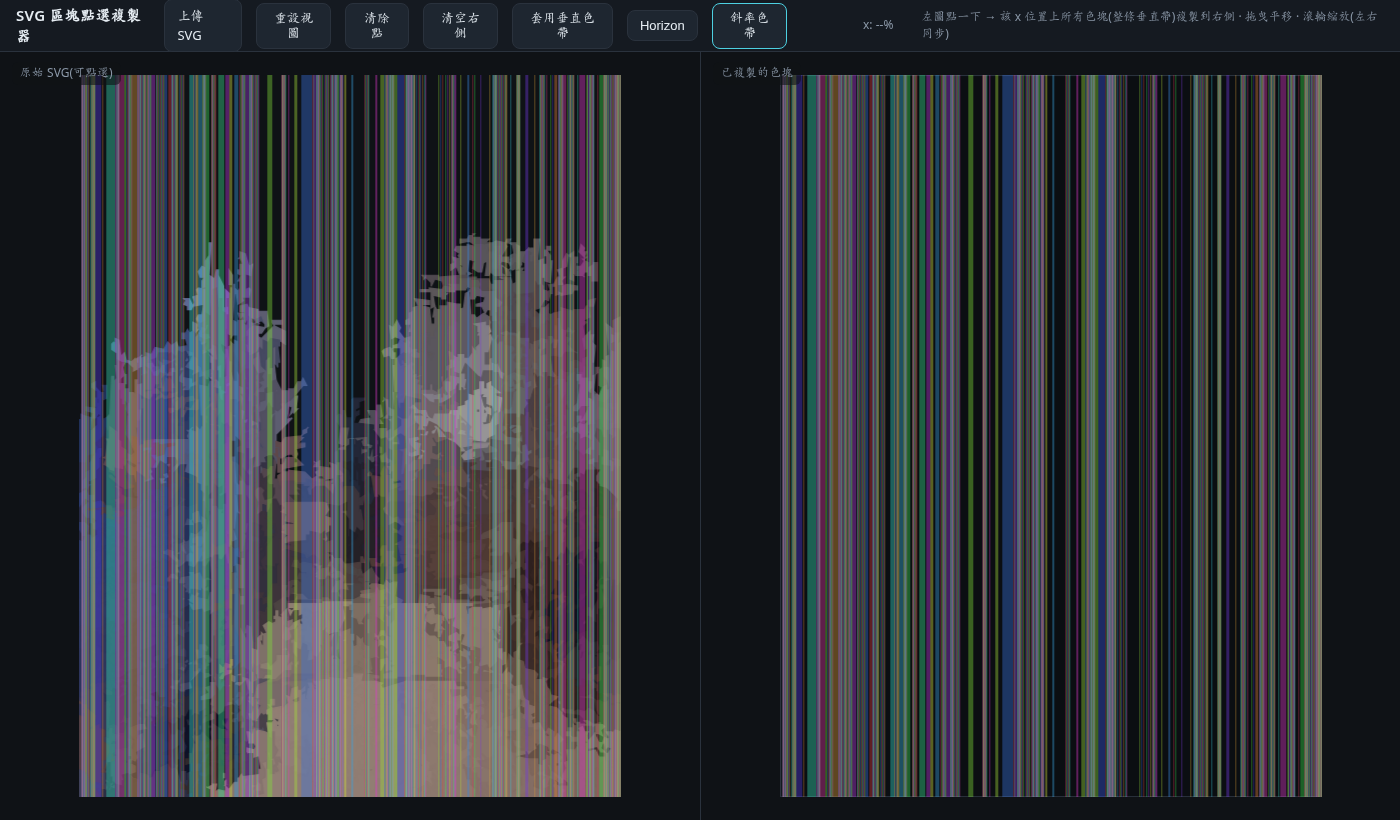
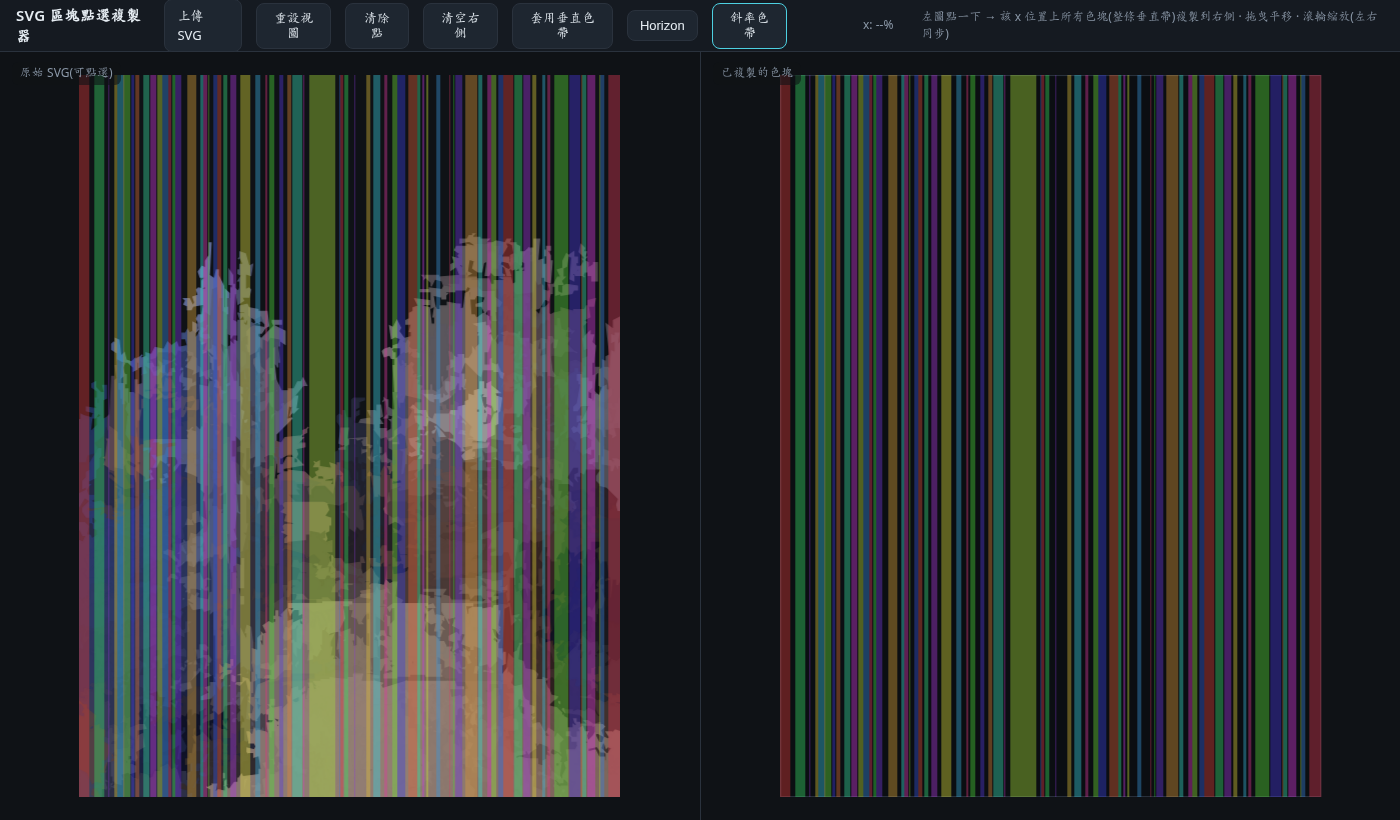
vcp: windowed slope + discontinuity exclusion for the bands
Partition the skyline per-column by a WINDOWED slope instead of the
forward difference, fixing two cases from review:

  - a rasterised diagonal (flat tread + 1px step, repeating) was
    fragmenting into one band per step; a window spans several treads so
    the whole diagonal now reads as ONE segment.
  - a near-vertical step is a discontinuity, not a slope; columns whose
    |slope| exceeds steepMax are excluded and left unmarked.

Each segment is now uniformly flat (unmarked) or uniformly sloped
(marked). Adds a clean flat→step→diagonal fixture proving the step stays
unmarked and the diagonal is a single band (431→69 bands on ex.svg).

diff --git a/vcp/horizon-slope.puppeteer.test.js b/vcp/horizon-slope.puppeteer.test.js
@@ -43,43 +43,56 @@ async function main() {
     // ---- 1. pure segmentation logic on synthetic skylines --------------------
     const segments = await page.evaluate(() => {
       const mk = ys => ys.map((y, i) => ({ x: i, y }));
+      const pair = s => s.map(g => [g.startIndex, g.endIndex]);
+      const opts = { window: 1, flatEps: 0.01, steepMax: 10 };
       return {
-        flat: horizonSlopeSegments(mk([5, 5, 5, 5, 5])),
-        oneRun: horizonSlopeSegments(mk([0, 0, 1, 2, 2])),
-        twoRuns: horizonSlopeSegments(mk([0, 1, 1, 2])),
-        gap: horizonSlopeSegments(mk([0, 1, null, 2, 3])),
-        trailing: horizonSlopeSegments(mk([0, 0, 1, 2])),
+        flat: horizonSlopeSegments(mk([5, 5, 5, 5, 5]), opts),
+        ramp: pair(horizonSlopeSegments(mk([0, 1, 2, 3, 4, 5]), opts)),
+        staircase: pair(horizonSlopeSegments(mk([0, 0, 0, 1, 1, 1, 2, 2, 2]), { ...opts, window: 2 })),
+        staircaseForward: pair(horizonSlopeSegments(mk([0, 0, 0, 1, 1, 1, 2, 2, 2]), { ...opts, window: 1 })),
+        cliff: horizonSlopeSegments(mk([0, 0, 0, 50, 50, 50]), opts),
+        cliffBetweenSlopes: pair(horizonSlopeSegments(mk([0, 1, 2, 50, 51, 52]), opts)),
+        gap: pair(horizonSlopeSegments(mk([0, 1, 2, null, 4, 5, 6]), opts)),
         colors: [0, 1, 2].map(bandColor)
       };
     });
 
     assert.deepEqual(segments.flat, [], "a perfectly flat skyline yields 0 bands");
+    assert.deepEqual(segments.ramp, [[0, 5]], "a constant slope is one unbroken band");
 
-    assert.equal(segments.oneRun.length, 1, "a single rise→fall is one non-flat run");
-    assert.deepEqual(
-      { s: segments.oneRun[0].startIndex, e: segments.oneRun[0].endIndex },
-      { s: 1, e: 3 }, "the run spans exactly the non-flat indices");
-    assert.equal(segments.oneRun[0].startPct, 25, "startIndex 1 of 4 → 25%");
-    assert.equal(segments.oneRun[0].endPct, 75, "endIndex 3 of 4 → 75%");
+    // the RIGHT-circle case: a rasterised diagonal (flat tread + step, repeating)
+    // must read as ONE segment, not fragment into a band per step.
+    assert.deepEqual(segments.staircase, [[1, 7]], "a windowed slope merges the staircase into one band");
+    assert.ok(segments.staircaseForward.length > 1, "a naive per-step read would fragment the same staircase");
 
-    assert.equal(segments.twoRuns.length, 2, "a flat step between two slopes splits into 2 bands");
-    assert.ok(segments.twoRuns[0].endPct <= segments.twoRuns[1].startPct, "bands do not overlap");
+    // the LEFT-circle case: a near-vertical step is a discontinuity, never marked.
+    assert.deepEqual(segments.cliff, [], "a lone vertical jump is a discontinuity, not a band");
+    assert.deepEqual(segments.cliffBetweenSlopes, [[0, 1], [4, 5]], "a jump splits two slopes and is left unmarked");
 
-    assert.equal(segments.gap.length, 2, "a null (no-pixel) gap breaks the run in two");
-    assert.deepEqual(
-      segments.gap.map(s => [s.startIndex, s.endIndex]),
-      [[0, 1], [3, 4]], "the gap at index 2 is excluded from every band");
-
-    assert.equal(segments.trailing.length, 1, "a run reaching the last sample is closed");
-    assert.equal(segments.trailing[0].endPct, 100, "the trailing run ends at 100%");
+    assert.deepEqual(segments.gap, [[0, 1], [5, 6]], "a null (no-pixel) gap breaks the run and is unmarked");
 
     assert.equal(new Set(segments.colors).size, 3, "each band index gets a distinct colour");
     assert.ok(segments.colors.every(c => c.startsWith("hsla(")), "colours are hsla() strings");
 
-    // ---- 2. live DOM rendering over the real ex.svg skyline ------------------
+    // ---- 2. clean geometric SVG: flat → vertical step → diagonal → flat -------
+    // mirrors the reported screenshot: the step must stay unmarked, the diagonal
+    // must be a single band.
+    const stepSlopeSvg = `<svg xmlns="http://www.w3.org/2000/svg" width="300" height="400" viewBox="0 0 300 400"><polygon points="0,200 100,200 100,100 150,100 250,250 300,250 300,400 0,400" fill="#c9c4bd"/></svg>`;
+    await page.evaluate(markup => loadSvgText(markup), stepSlopeSvg);
+    await page.click("#slopeband");
+    await page.waitForFunction(() => document.querySelector("#lbands").childElementCount > 0);
+    const clean = await page.evaluate(() => [...document.querySelectorAll("#lbands > div")]
+      .map(d => ({ left: parseFloat(d.style.left), width: parseFloat(d.style.width) })));
+
+    assert.equal(clean.length, 1, "the diagonal yields exactly one band");
+    const band = clean[0], right = band.left + band.width;
+    assert.ok(band.left > 40 && band.left < 55, "the band starts at the diagonal (~50%), not the flat top");
+    assert.ok(right > 80 && right < 90, "the band ends where the diagonal does (~83%)");
+    assert.ok(!(33 >= band.left && 33 <= right), "the vertical step (~33%) is outside the band — the discontinuity is unmarked");
+
+    // ---- 3. live DOM rendering over the real ex.svg skyline ------------------
     const fixture = await readFile(fixturePath, "utf8");
     await page.evaluate(markup => loadSvgText(markup), fixture);
-
     await page.click("#slopeband");
     await page.waitForFunction(() => document.querySelector("#lbands").childElementCount > 0);
     const bands = await page.evaluate(() => {
@@ -89,7 +102,8 @@ async function main() {
       return { left: read("lbands"), right: read("rbands") };
     });
 
-    assert.ok(bands.left.length > 1, "ex.svg's varied skyline produces multiple bands");
+    assert.ok(bands.left.length > 0, "ex.svg's varied skyline produces bands");
+    assert.ok(bands.left.length < 431, "windowing + discontinuity exclusion beats the naive per-pixel partition");
     assert.equal(bands.left.length, bands.right.length, "both panels show the same bands");
     assert.ok(bands.left.every(b => b.left >= 0 && b.left + b.width <= 100.0001), "bands stay within 0~100%");
     assert.ok(bands.left.every(b => b.width > 0), "every band has a positive width");
@@ -97,7 +111,7 @@ async function main() {
     const lefts = bands.left.map(b => b.left);
     assert.deepEqual(lefts, [...lefts].sort((a, b) => a - b), "bands are laid out left→right");
 
-    // ---- 3. a second click clears the bands ---------------------------------
+    // ---- 4. a second click clears the bands ---------------------------------
     await page.click("#slopeband");
     const cleared = await page.evaluate(() => ({
       left: document.querySelector("#lbands").childElementCount,

diff --git a/vcp/index.html b/vcp/index.html
@@ -133,29 +133,47 @@ function applyShade(startPct, endPct, hex, alpha) {
   }
 }
 
-/* ---- slope bands: cut the horizon skyline into maximal runs where the
-   partial derivative ∂y/∂x ≠ 0 (i.e. the segment is NOT flat), and paint each
-   such run as its own vertical colour band. A flat step (equal skyline y) or a
-   gap (no filled pixel) ends the current run, so the count of bands is 0..N. */
-function horizonSlopeSegments(points) {
-  const last = points.length - 1;
-  const segments = [];
-  let run = null;                                   // start index of the open non-flat run
-  const close = endIndex => {
-    segments.push({
-      startIndex: run, endIndex,
-      startPct: (run / last) * 100, endPct: (endIndex / last) * 100
-    });
-    run = null;
-  };
-  for (let i = 0; i < last; i++) {
-    const a = points[i], b = points[i + 1];
-    const measurable = Number.isFinite(a.y) && Number.isFinite(b.y) && b.x !== a.x;
-    const notFlat = measurable && (b.y - a.y) !== 0;   // ∂y/∂x ≠ 0  ⇒  not slope 0
-    if (notFlat) { if (run === null) run = i; }
-    else if (run !== null) close(i);
+/* ---- slope bands: cut the horizon skyline into maximal runs that are NOT
+   flat, and paint each run as its own vertical colour band. The partition is
+   per-column by a *windowed* slope ∂y/∂x, which matters for two reasons the
+   naive forward difference gets wrong:
+     • a sloped edge rasterises to a staircase (flat tread + 1px step, repeating)
+       — a window spans several treads so the whole diagonal reads as ONE slope
+       instead of fragmenting into many tiny bands;
+     • a near-vertical step is a *discontinuity* (a jump), not a slope — any
+       column whose |slope| exceeds `steepMax` is excluded and left unmarked.
+   So every segment is uniformly flat (unmarked) or uniformly sloped (marked),
+   and the number of marked bands is 0..N. */
+function horizonSlopeSegments(points, options = {}) {
+  const n = points.length, last = n - 1;
+  if (last < 1) return [];
+  const window = Math.max(1, options.window ?? Math.min(20, Math.max(4, Math.round(n * 0.004))));
+  const flatEps = options.flatEps ?? 0.1;           // |slope| ≤ this ⇒ flat (also swallows ±1px raster jitter)
+  const steepMax = options.steepMax ?? 4;           // |slope| > this ⇒ discontinuity (near-vertical jump), never marked
+
+  const slope = new Array(n).fill(null);            // central/windowed slope per column; null where undefined
+  for (let i = 0; i < n; i++) {
+    if (!Number.isFinite(points[i].y)) continue;
+    const a = points[Math.max(0, i - window)], b = points[Math.min(last, i + window)];
+    if (!Number.isFinite(a.y) || !Number.isFinite(b.y) || b.x === a.x) continue;   // a gap breaks the slope
+    slope[i] = (b.y - a.y) / (b.x - a.x);
   }
-  if (run !== null) close(last);
+  const isSloped = i => slope[i] !== null && Math.abs(slope[i]) > flatEps && Math.abs(slope[i]) <= steepMax;
+
+  const segments = [];
+  let start = null;
+  const close = end => {
+    segments.push({
+      startIndex: start, endIndex: end,
+      startPct: (start / last) * 100, endPct: Math.min(100, ((end + 1) / last) * 100)
+    });
+    start = null;
+  };
+  for (let i = 0; i < n; i++) {
+    if (isSloped(i)) { if (start === null) start = i; }
+    else if (start !== null) close(i - 1);
+  }
+  if (start !== null) close(last);
   return segments;
 }
 function bandColor(i) {
